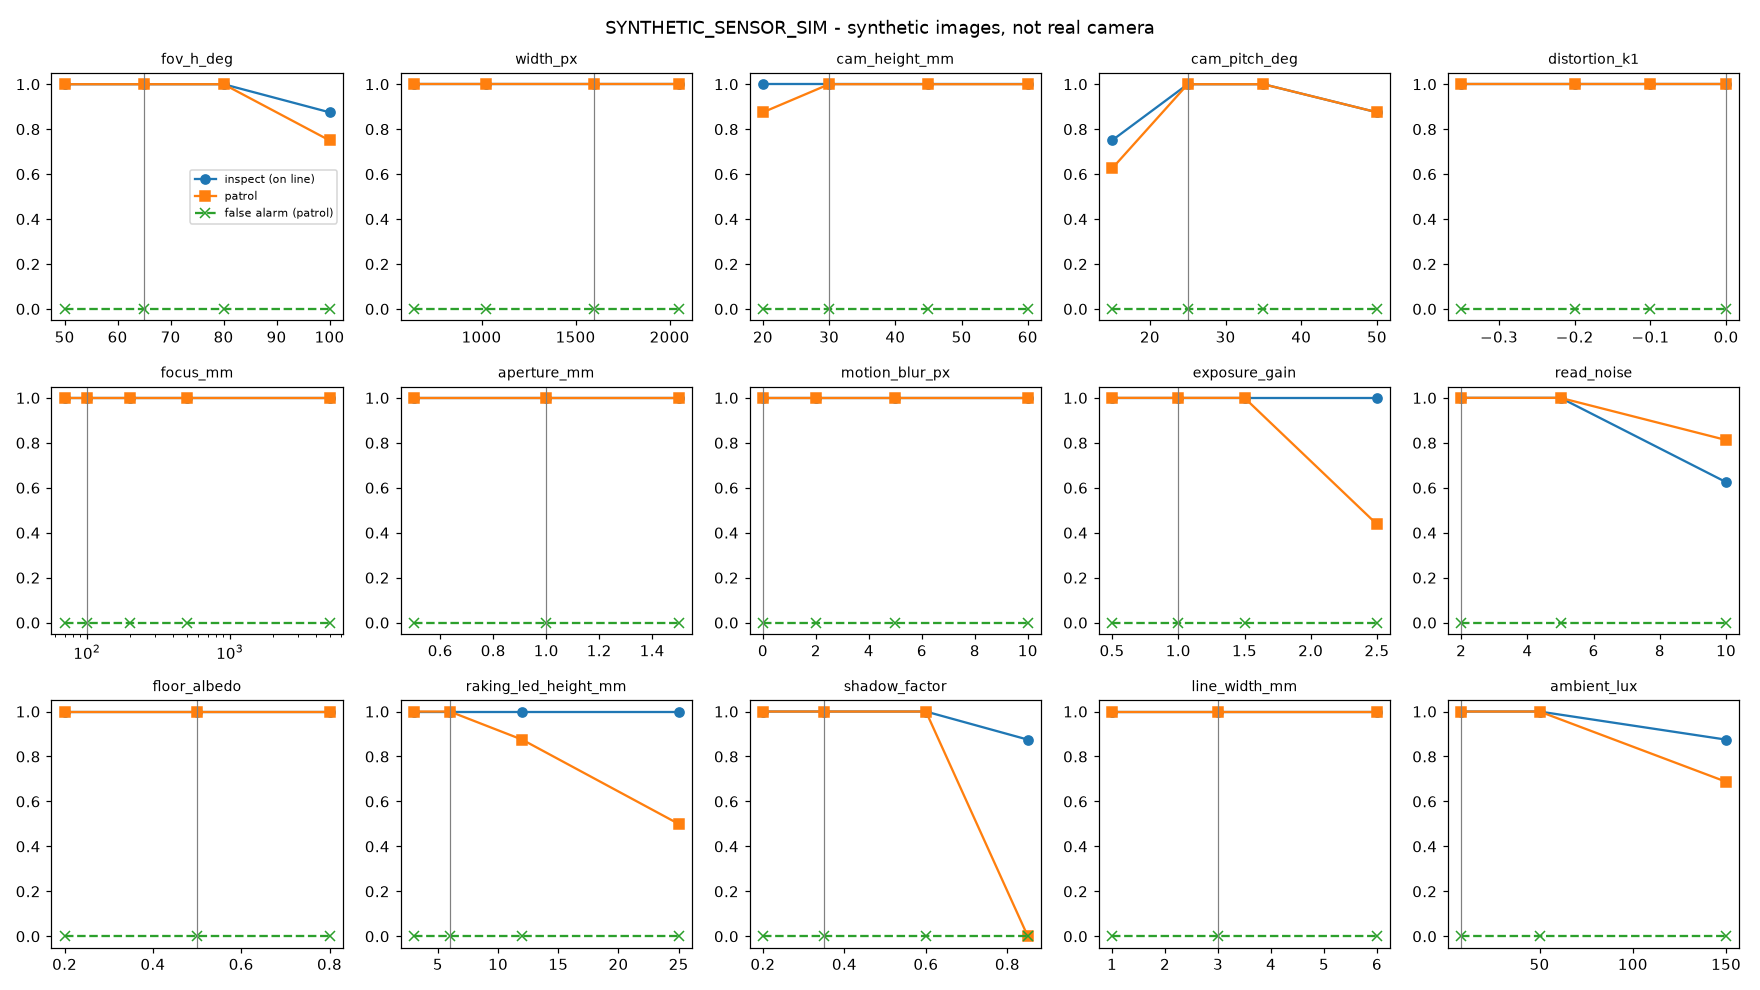
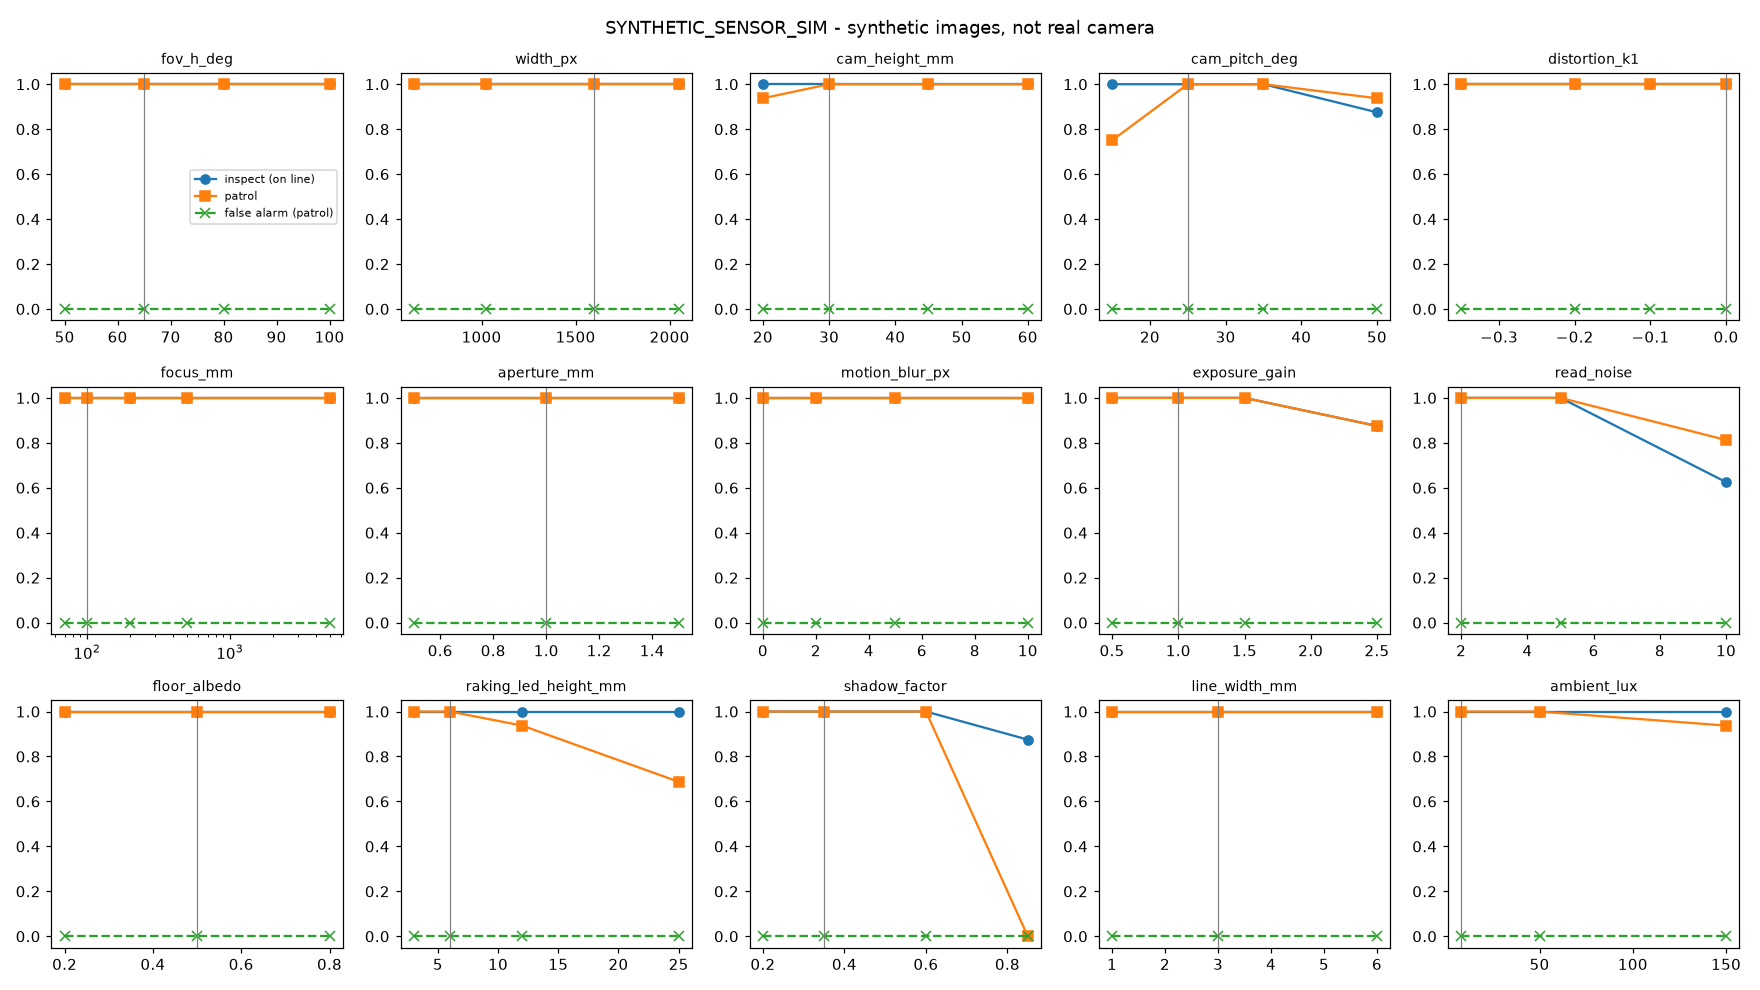
HG-H2 re-run on the integration base: far phantoms 26/44 -> 0/44 conditions (OQ-0111); farfield scenario as a base regression
LB-E-009 / SE-E2. vision-sim's detector fixes already remove the far-field phantom; farfield-roi's line_max_range_mm is not integrated.
39 metric cells improved, 2 worsened (exposure_gain=2.5: inspect 1.00->0.88, critical 1.00->0.80), recorded in the README.
SYNTHETIC_SENSOR_SIM only; no real-camera evidence.

diff --git a/tests/test_hardware_gap_h2.py b/tests/test_hardware_gap_h2.py
@@ -77,3 +77,32 @@ def test_ingest_fov_and_focus_recover_the_parameters(h2, tmp_path: Path, monkeyp
     assert fit["aperture_mm"] == pytest.approx(a_true, rel=0.05)
     assert (tmp_path / "results" / "measured" / "raw").exists()
     assert list((tmp_path / "ai-outbox" / "handoffs").glob("*_HG-H2_measured.md"))
+
+
+def test_defocused_far_field_line_dropout_is_not_an_object_but_near_specular_still_is(h2) -> None:
+    """OQ-0111 / LB-E-009。2026-09-29 の HG-H2 の発見の回帰（farfield-roi `0e9b79a` のシナリオを、新しい設定キー無しで）:
+    nominal（UXGA・100mm 合焦・口径 1mm）では遠方で線光がぼけて消え、その途切れが 1m 先・直径 130mm の specular_break の偽物になっていた。
+    統合 base の検出（vision-sim の修正）では、汚れだけの床で `reach_mm` より遠い物の候補は出ない。近くの鏡面（ボタン電池）は同じぼけの下でも見つかる。
+    **SYNTHETIC_SENSOR_SIM。実カメラでは未確認。**"""
+    from serpens.config import load_config
+    from serpens.floorwatch.detect import detect
+    from serpens.floorwatch.geometry import LightPlane
+    from serpens.floorwatch.synthetic import Disc, Renderer, Scene, Stain
+    p = dict(h2.A["nominal"])
+    cfg = h2.cfg_for(load_config(), p)
+    reach = float(cfg["floor_watch"]["mission"]["reach_mm"])
+    cam = h2.camera(p)
+    plane = LightPlane.design(cfg)
+    rend = Renderer(cam, plane, h2.lighting(p))
+    deg = h2.Degrader(cam, rend, p)
+    yc = h2.view_center_mm(p)
+    stain = rend.render(Scene(stains=[Stain(0.0, yc, 18.0, 0.3)], floor_albedo=float(p["floor_albedo"])))
+    for seed in (2, 4, 5, 6, 7, 8):                               # 劣化の雑音次第で出たり出なかったりした（farfield は 6 通り中 3）
+        frames = {k: deg(v, np.random.default_rng(seed)) for k, v in stain.items()}
+        far = [c for c in detect(frames, cam, plane, cfg)[0] if c.is_object and math.hypot(*c.floor_xy_mm) > reach]
+        assert not far, [(c.floor_xy_mm, c.diameter_mm, c.height_reason) for c in far]
+    cell = rend.render(Scene([Disc(0.0, yc, 20.0, 3.2, 0.75, True, "button_cell")], floor_albedo=float(p["floor_albedo"])))
+    frames = {k: deg(v, np.random.default_rng(2)) for k, v in cell.items()}
+    objs = [c for c in detect(frames, cam, plane, cfg)[0] if c.is_object]
+    hit = [c for c in objs if abs(c.floor_xy_mm[0]) < 12.0 and abs(c.floor_xy_mm[1] - yc) < 25.0]
+    assert hit and any(k["kind"] == "metal_disc" for k in hit[0].kinds)

diff --git a/simulation/hardware_gaps/HG-H2_sensor_head/run.py b/simulation/hardware_gaps/HG-H2_sensor_head/run.py
@@ -217,7 +217,7 @@ def ok(r: dict[str, Any]) -> bool:
 
 
 def ok_with_phantoms(r: dict[str, Any]) -> bool:
-    """範囲外の偽物も誤報として数えた場合（検出器を直すまではこちらが実際の挙動）。"""
+    """範囲外の偽物も誤報として数えた場合（2026-10-01 の統合 branch の検出では 0 条件。以前の検出では 26/44 条件で出ていた）。"""
     return ok(r) and r["far_phantom_inspect"] <= A["criteria"]["max_false_alarm"]
 
 
@@ -229,7 +229,7 @@ def write_decision(rows: list[dict[str, Any]], stamp: str) -> None:
          f"基準（ASSUMPTION）: 停止時（線上）の検出率 ≥ {A['criteria']['min_recall_inspect']:.0%}、巡回時 ≥ {A['criteria']['min_recall_patrol']:.0%}、"
          f"誤報率 ≤ {A['criteria']['max_false_alarm']:.0%}\n",
          "誤報は頭から `floor_watch.mission.reach_mm` 以内の候補だけを数える。それより遠い偽物（ぼけた遠方で線光が途切れて出る "
-         "`specular_break` など）は「範囲外の偽物」として別に数える（**現在の検出器はこれを除外しない = 修正タスクを提案済み**）。\n",
+         "`specular_break` など）は「範囲外の偽物」として別に数える（2026-10-01 の統合 branch `f8f2229` で回し直した結果: **範囲外の偽物が出る条件は 26/44 → 0/44**（nominal 41% → 0%）。vision-sim の検出の修正（`d259f59` ほか）が既に除外している。farfield-roi の `line_max_range_mm` は統合していない。**SYNTHETIC_SENSOR_SIM。実カメラでは未確認**）。\n",
          "| 条件 | 巡回 検出 | 停止 検出（線上） | 危険物（線上） | 誤報 巡回 / 停止 | 範囲外の偽物 | 大きさ誤差 | 中心のぼけ σ px | 中心 mm/px | 撮り直し | 合否 | 見逃し |",
          "|---|---|---|---|---|---|---|---|---|---|---|---|"]
     for r in rows:

diff --git a/simulation/hardware_gaps/HG-H2_sensor_head/decision_boundary.md b/simulation/hardware_gaps/HG-H2_sensor_head/decision_boundary.md
@@ -1,70 +1,70 @@
-# HG-H2 センサーヘッド — 感度と判定の境界（自動生成 2026-09-29 04:18。source = SYNTHETIC_SENSOR_SIM。**合成画像。実画像の性能ではない**）
+# HG-H2 センサーヘッド — 感度と判定の境界（自動生成 2026-10-02 00:16。source = SYNTHETIC_SENSOR_SIM。**合成画像。実画像の性能ではない**）
 
 既存の Renderer / detect に実カメラの劣化を重ねた。1 変数ずつ振り、残りは `assumptions.yaml` の nominal。1 条件 = 小物 8 種 × 2 位置 + 陰性 3 種 × 2 位置。**n が小さいので 1 件の差で割合が大きく動く**。
 
 基準（ASSUMPTION）: 停止時（線上）の検出率 ≥ 90%、巡回時 ≥ 70%、誤報率 ≤ 20%
 
-誤報は頭から `floor_watch.mission.reach_mm` 以内の候補だけを数える。それより遠い偽物（ぼけた遠方で線光が途切れて出る `specular_break` など）は「範囲外の偽物」として別に数える（**現在の検出器はこれを除外しない = 修正タスクを提案済み**）。
+誤報は頭から `floor_watch.mission.reach_mm` 以内の候補だけを数える。それより遠い偽物（ぼけた遠方で線光が途切れて出る `specular_break` など）は「範囲外の偽物」として別に数える（2026-10-01 の統合 branch `f8f2229` で回し直した結果: **範囲外の偽物が出る条件は 26/44 → 0/44**（nominal 41% → 0%）。vision-sim の検出の修正（`d259f59` ほか）が既に除外している。farfield-roi の `line_max_range_mm` は統合していない。**SYNTHETIC_SENSOR_SIM。実カメラでは未確認**）。
 
 | 条件 | 巡回 検出 | 停止 検出（線上） | 危険物（線上） | 誤報 巡回 / 停止 | 範囲外の偽物 | 大きさ誤差 | 中心のぼけ σ px | 中心 mm/px | 撮り直し | 合否 | 見逃し |
 |---|---|---|---|---|---|---|---|---|---|---|---|
-| nominal | 100% | 100% | 100% | 0% / 0% | 41% | 16% | 2.1 | 0.057 | 0% | OK（偽物込みで NG） | — |
+| nominal | 100% | 100% | 100% | 0% / 0% | 0% | 7% | 2.1 | 0.057 | 0% | OK | — |
 | fov_h_deg=50.0 | 100% | 100% | 100% | 0% / 0% | 0% | 8% | 2.8 | 0.041 | 0% | OK | — |
 | fov_h_deg=80.0 | 100% | 100% | 100% | 0% / 0% | 0% | 7% | 1.6 | 0.074 | 0% | OK | — |
-| fov_h_deg=100.0 | 75% | 88% | 100% | 0% / 0% | 0% | 8% | 1.1 | 0.106 | 0% | NG | coin_1yen |
+| fov_h_deg=100.0 | 100% | 100% | 100% | 0% / 0% | 0% | 10% | 1.1 | 0.106 | 0% | OK | — |
 | width_px=640 | 100% | 100% | 100% | 0% / 0% | 0% | 7% | 0.8 | 0.141 | 0% | OK | — |
 | width_px=1024 | 100% | 100% | 100% | 0% / 0% | 0% | 7% | 1.3 | 0.088 | 0% | OK | — |
 | width_px=2048 | 100% | 100% | 100% | 0% / 0% | 0% | 7% | 2.6 | 0.044 | 0% | OK | — |
-| cam_height_mm=20.0 | 88% | 100% | 100% | 0% / 0% | 0% | 27% | 5.6 | 0.038 | 0% | OK | — |
-| cam_height_mm=45.0 | 100% | 100% | 100% | 0% / 0% | 100% | 5% | 0.3 | 0.085 | 0% | OK（偽物込みで NG） | — |
-| cam_height_mm=60.0 | 100% | 100% | 100% | 0% / 0% | 100% | 4% | 1.5 | 0.113 | 0% | OK（偽物込みで NG） | — |
-| cam_pitch_deg=15.0 | 62% | 75% | 60% | 0% / 0% | 100% | 10% | 0.7 | 0.092 | 0% | NG | button_cr2032;magnet_neo |
+| cam_height_mm=20.0 | 94% | 100% | 100% | 0% / 0% | 0% | 27% | 5.6 | 0.038 | 0% | OK | — |
+| cam_height_mm=45.0 | 100% | 100% | 100% | 0% / 0% | 0% | 4% | 0.3 | 0.085 | 0% | OK | — |
+| cam_height_mm=60.0 | 100% | 100% | 100% | 0% / 0% | 0% | 4% | 1.5 | 0.113 | 0% | OK | — |
+| cam_pitch_deg=15.0 | 75% | 100% | 100% | 0% / 0% | 0% | 12% | 0.7 | 0.092 | 0% | OK | — |
 | cam_pitch_deg=35.0 | 100% | 100% | 100% | 0% / 0% | 0% | 7% | 4.6 | 0.042 | 0% | OK | — |
-| cam_pitch_deg=50.0 | 88% | 88% | 80% | 0% / 0% | 0% | 11% | 7.8 | 0.031 | 9% | NG | button_lr44 |
-| distortion_k1=-0.1 | 100% | 100% | 100% | 0% / 0% | 100% | 15% | 2.1 | 0.057 | 0% | OK（偽物込みで NG） | — |
-| distortion_k1=-0.2 | 100% | 100% | 100% | 0% / 0% | 100% | 15% | 2.1 | 0.057 | 0% | OK（偽物込みで NG） | — |
-| distortion_k1=-0.35 | 100% | 100% | 100% | 0% / 0% | 100% | 7% | 2.1 | 0.057 | 0% | OK（偽物込みで NG） | — |
-| focus_mm=70.0 | 100% | 100% | 100% | 0% / 0% | 41% | 16% | 0.1 | 0.057 | 0% | OK（偽物込みで NG） | — |
+| cam_pitch_deg=50.0 | 94% | 88% | 80% | 0% / 0% | 0% | 11% | 7.8 | 0.031 | 9% | NG | button_lr44 |
+| distortion_k1=-0.1 | 100% | 100% | 100% | 0% / 0% | 0% | 15% | 2.1 | 0.057 | 0% | OK | — |
+| distortion_k1=-0.2 | 100% | 100% | 100% | 0% / 0% | 0% | 15% | 2.1 | 0.057 | 0% | OK | — |
+| distortion_k1=-0.35 | 100% | 100% | 100% | 0% / 0% | 0% | 7% | 2.1 | 0.057 | 0% | OK | — |
+| focus_mm=70.0 | 100% | 100% | 100% | 0% / 0% | 0% | 7% | 0.1 | 0.057 | 0% | OK | — |
 | focus_mm=200.0 | 100% | 100% | 100% | 0% / 0% | 0% | 7% | 4.6 | 0.057 | 0% | OK | — |
 | focus_mm=500.0 | 100% | 100% | 100% | 0% / 0% | 0% | 13% | 6.1 | 0.057 | 0% | OK | — |
 | focus_mm=5000.0 | 100% | 100% | 100% | 0% / 0% | 0% | 13% | 7.0 | 0.057 | 0% | OK | — |
-| aperture_mm=0.5 | 100% | 100% | 100% | 0% / 0% | 0% | 16% | 1.0 | 0.057 | 0% | OK | — |
-| aperture_mm=1.5 | 100% | 100% | 100% | 0% / 0% | 41% | 7% | 3.1 | 0.057 | 0% | OK（偽物込みで NG） | — |
-| motion_blur_px=2.0 | 100% | 100% | 100% | 0% / 0% | 36% | 23% | 2.1 | 0.057 | 0% | OK（偽物込みで NG） | — |
-| motion_blur_px=5.0 | 100% | 100% | 100% | 0% / 0% | 55% | 7% | 2.1 | 0.057 | 0% | OK（偽物込みで NG） | — |
-| motion_blur_px=10.0 | 100% | 100% | 100% | 0% / 0% | 91% | 8% | 2.1 | 0.057 | 0% | OK（偽物込みで NG） | — |
-| exposure_gain=0.5 | 100% | 100% | 100% | 0% / 0% | 100% | 7% | 2.1 | 0.057 | 0% | OK（偽物込みで NG） | — |
-| exposure_gain=1.5 | 100% | 100% | 100% | 0% / 0% | 0% | 16% | 2.1 | 0.057 | 0% | OK | — |
-| exposure_gain=2.5 | 44% | 100% | 100% | 0% / 0% | 0% | 65% | 2.1 | 0.057 | 0% | NG | — |
-| read_noise=5.0 | 100% | 100% | 100% | 0% / 0% | 9% | 7% | 2.1 | 0.057 | 0% | OK | — |
-| read_noise=10.0 | 81% | 62% | 80% | 0% / 0% | 5% | 6% | 2.1 | 0.057 | 23% | NG | button_lr44;coin_1yen;crumb |
-| floor_albedo=0.2 | 100% | 100% | 100% | 0% / 0% | 95% | 17% | 2.1 | 0.057 | 5% | OK（偽物込みで NG） | — |
+| aperture_mm=0.5 | 100% | 100% | 100% | 0% / 0% | 0% | 7% | 1.0 | 0.057 | 0% | OK | — |
+| aperture_mm=1.5 | 100% | 100% | 100% | 0% / 0% | 0% | 7% | 3.1 | 0.057 | 0% | OK | — |
+| motion_blur_px=2.0 | 100% | 100% | 100% | 0% / 0% | 0% | 15% | 2.1 | 0.057 | 0% | OK | — |
+| motion_blur_px=5.0 | 100% | 100% | 100% | 0% / 0% | 0% | 7% | 2.1 | 0.057 | 0% | OK | — |
+| motion_blur_px=10.0 | 100% | 100% | 100% | 0% / 0% | 0% | 8% | 2.1 | 0.057 | 0% | OK | — |
+| exposure_gain=0.5 | 100% | 100% | 100% | 0% / 0% | 0% | 7% | 2.1 | 0.057 | 0% | OK | — |
+| exposure_gain=1.5 | 100% | 100% | 100% | 0% / 0% | 0% | 7% | 2.1 | 0.057 | 0% | OK | — |
+| exposure_gain=2.5 | 88% | 88% | 80% | 0% / 0% | 0% | 65% | 2.1 | 0.057 | 0% | NG | button_lr44 |
+| read_noise=5.0 | 100% | 100% | 100% | 0% / 0% | 0% | 7% | 2.1 | 0.057 | 0% | OK | — |
+| read_noise=10.0 | 81% | 62% | 80% | 0% / 0% | 0% | 6% | 2.1 | 0.057 | 23% | NG | button_lr44;coin_1yen;crumb |
+| floor_albedo=0.2 | 100% | 100% | 100% | 0% / 0% | 0% | 17% | 2.1 | 0.057 | 5% | OK | — |
 | floor_albedo=0.8 | 100% | 100% | 100% | 0% / 0% | 0% | 20% | 2.1 | 0.057 | 0% | OK | — |
-| raking_led_height_mm=3.0 | 100% | 100% | 100% | 0% / 0% | 41% | 16% | 2.1 | 0.057 | 0% | OK（偽物込みで NG） | — |
-| raking_led_height_mm=12.0 | 88% | 100% | 100% | 0% / 0% | 41% | 16% | 2.1 | 0.057 | 0% | OK（偽物込みで NG） | — |
-| raking_led_height_mm=25.0 | 50% | 100% | 100% | 0% / 0% | 41% | 16% | 2.1 | 0.057 | 0% | NG | — |
-| shadow_factor=0.2 | 100% | 100% | 100% | 0% / 0% | 41% | 14% | 2.1 | 0.057 | 0% | OK（偽物込みで NG） | — |
-| shadow_factor=0.6 | 100% | 100% | 100% | 0% / 0% | 41% | 8% | 2.1 | 0.057 | 0% | OK（偽物込みで NG） | — |
-| shadow_factor=0.85 | 0% | 88% | 100% | 0% / 0% | 41% | 9% | 2.1 | 0.057 | 0% | NG | crumb |
-| line_width_mm=1.0 | 100% | 100% | 100% | 0% / 0% | 100% | 16% | 2.1 | 0.057 | 0% | OK（偽物込みで NG） | — |
-| line_width_mm=6.0 | 100% | 100% | 100% | 0% / 0% | 0% | 16% | 2.1 | 0.057 | 0% | OK | — |
-| ambient_lux=50.0 | 100% | 100% | 100% | 0% / 0% | 59% | 23% | 2.1 | 0.057 | 0% | OK（偽物込みで NG） | — |
-| ambient_lux=150.0 | 69% | 88% | 100% | 0% / 0% | 82% | 13% | 2.1 | 0.057 | 0% | NG | coin_1yen |
-| worst_case | 94% | 88% | 80% | 0% / 33% | 0% | 8% | 7.0 | 0.057 | 5% | NG | button_lr44 |
-| no_raking | 0% | 88% | 100% | 0% / 0% | 41% | 9% | 2.1 | 0.057 | 0% | NG | crumb |
+| raking_led_height_mm=3.0 | 100% | 100% | 100% | 0% / 0% | 0% | 7% | 2.1 | 0.057 | 0% | OK | — |
+| raking_led_height_mm=12.0 | 94% | 100% | 100% | 0% / 0% | 0% | 7% | 2.1 | 0.057 | 0% | OK | — |
+| raking_led_height_mm=25.0 | 69% | 100% | 100% | 0% / 0% | 0% | 7% | 2.1 | 0.057 | 0% | NG | — |
+| shadow_factor=0.2 | 100% | 100% | 100% | 0% / 0% | 0% | 15% | 2.1 | 0.057 | 0% | OK | — |
+| shadow_factor=0.6 | 100% | 100% | 100% | 0% / 0% | 0% | 8% | 2.1 | 0.057 | 0% | OK | — |
+| shadow_factor=0.85 | 0% | 88% | 100% | 0% / 0% | 0% | 9% | 2.1 | 0.057 | 0% | NG | crumb |
+| line_width_mm=1.0 | 100% | 100% | 100% | 0% / 0% | 0% | 16% | 2.1 | 0.057 | 0% | OK | — |
+| line_width_mm=6.0 | 100% | 100% | 100% | 0% / 0% | 0% | 7% | 2.1 | 0.057 | 0% | OK | — |
+| ambient_lux=50.0 | 100% | 100% | 100% | 0% / 0% | 0% | 15% | 2.1 | 0.057 | 0% | OK | — |
+| ambient_lux=150.0 | 94% | 100% | 100% | 0% / 0% | 0% | 14% | 2.1 | 0.057 | 0% | OK | — |
+| worst_case | 94% | 88% | 80% | 0% / 0% | 0% | 8% | 7.0 | 0.057 | 5% | NG | button_lr44 |
+| no_raking | 0% | 88% | 100% | 0% / 0% | 0% | 9% | 2.1 | 0.057 | 0% | NG | crumb |
 
 ## 感度の順位（nominal からの停止時検出率・巡回検出率の最大の低下）
 
 | パラメータ | 最大の悪化 |
 |---|---|
 | shadow_factor | +100% |
-| exposure_gain | +56% |
-| raking_led_height_mm | +50% |
-| cam_pitch_deg | +38% |
 | read_noise | +38% |
-| ambient_lux | +31% |
-| fov_h_deg | +25% |
-| cam_height_mm | +12% |
+| raking_led_height_mm | +31% |
+| cam_pitch_deg | +25% |
+| exposure_gain | +12% |
+| cam_height_mm | +6% |
+| ambient_lux | +6% |
+| fov_h_deg | +0% |
 | width_px | +0% |
 | distortion_k1 | +0% |
 | focus_mm | +0% |
@@ -75,10 +75,10 @@
 
 ## 合格する範囲（掃引した値のうち、基準を満たしたもの）
 
-- fov_h_deg: nominal 65.0 / 合格 [50.0, 65.0, 80.0] / 掃引 [50.0, 65.0, 80.0, 100.0]
+- fov_h_deg: nominal 65.0 / 合格 [50.0, 65.0, 80.0, 100.0] / 掃引 [50.0, 65.0, 80.0, 100.0]
 - width_px: nominal 1600 / 合格 [640, 1024, 1600, 2048] / 掃引 [640, 1024, 1600, 2048]
 - cam_height_mm: nominal 30.0 / 合格 [20.0, 30.0, 45.0, 60.0] / 掃引 [20.0, 30.0, 45.0, 60.0]
-- cam_pitch_deg: nominal 25.0 / 合格 [25.0, 35.0] / 掃引 [15.0, 25.0, 35.0, 50.0]
+- cam_pitch_deg: nominal 25.0 / 合格 [15.0, 25.0, 35.0] / 掃引 [15.0, 25.0, 35.0, 50.0]
 - distortion_k1: nominal 0.0 / 合格 [-0.35, -0.2, -0.1, 0.0] / 掃引 [-0.35, -0.2, -0.1, 0.0]
 - focus_mm: nominal 100.0 / 合格 [70.0, 100.0, 200.0, 500.0, 5000.0] / 掃引 [70.0, 100.0, 200.0, 500.0, 5000.0]
 - aperture_mm: nominal 1.0 / 合格 [0.5, 1.0, 1.5] / 掃引 [0.5, 1.0, 1.5]
@@ -89,4 +89,4 @@
 - raking_led_height_mm: nominal 6.0 / 合格 [3.0, 6.0, 12.0] / 掃引 [3.0, 6.0, 12.0, 25.0]
 - shadow_factor: nominal 0.35 / 合格 [0.2, 0.35, 0.6] / 掃引 [0.2, 0.35, 0.6, 0.85]
 - line_width_mm: nominal 3.0 / 合格 [1.0, 3.0, 6.0] / 掃引 [1.0, 3.0, 6.0]
-- ambient_lux: nominal 8.0 / 合格 [8.0, 50.0] / 掃引 [8.0, 50.0, 150.0]
+- ambient_lux: nominal 8.0 / 合格 [8.0, 50.0, 150.0] / 掃引 [8.0, 50.0, 150.0]

diff --git a/simulation/hardware_gaps/HG-H2_sensor_head/README.md b/simulation/hardware_gaps/HG-H2_sensor_head/README.md
@@ -39,4 +39,5 @@
 ## 読み方の注意
 
 - 1 条件は 陽性 16 件・陰性 6 件。**1 件で割合が 6〜17% 動く**。傾向（どのパラメータが効くか）を読み、割合の細かい差は読まない
-- 誤報は頭から `floor_watch.mission.reach_mm` 以内だけを数え、それより遠い偽物は別の列にした。現在の検出器は遠方の偽物を除外しない（修正タスクを提案済み）
+- 誤報は頭から `floor_watch.mission.reach_mm` 以内だけを数え、それより遠い偽物は別の列にした。（2026-10-01 の統合 branch `f8f2229` で回し直した結果: **範囲外の偽物が出る条件は 26/44 → 0/44**（nominal 41% → 0%）。vision-sim の検出の修正（`d259f59` ほか）が既に除外している。farfield-roi の `line_max_range_mm` は統合していない。**SYNTHETIC_SENSOR_SIM。実カメラでは未確認**）。
+- **2026-10-01 の再実行（統合 `f8f2229`、旧は eng-floor-watch 時代の `oat.csv`）の変化（LB-E-009）**: 主な指標のうち良くなったセル 39、**悪くなったセル 2**（`exposure_gain=2.5` の停止時検出 1.00 → 0.88、危険物の停止時検出 1.00 → 0.80。露出過多の条件。原因は未調査 = A の候補）。範囲外の偽物 26/44 → 0/44。farfield-roi の遠方シナリオは `tests/test_hardware_gap_h2.py` に統合 base 用の回帰として追加（新しい設定キー無し）。**合成画像の値は楽観値**。
